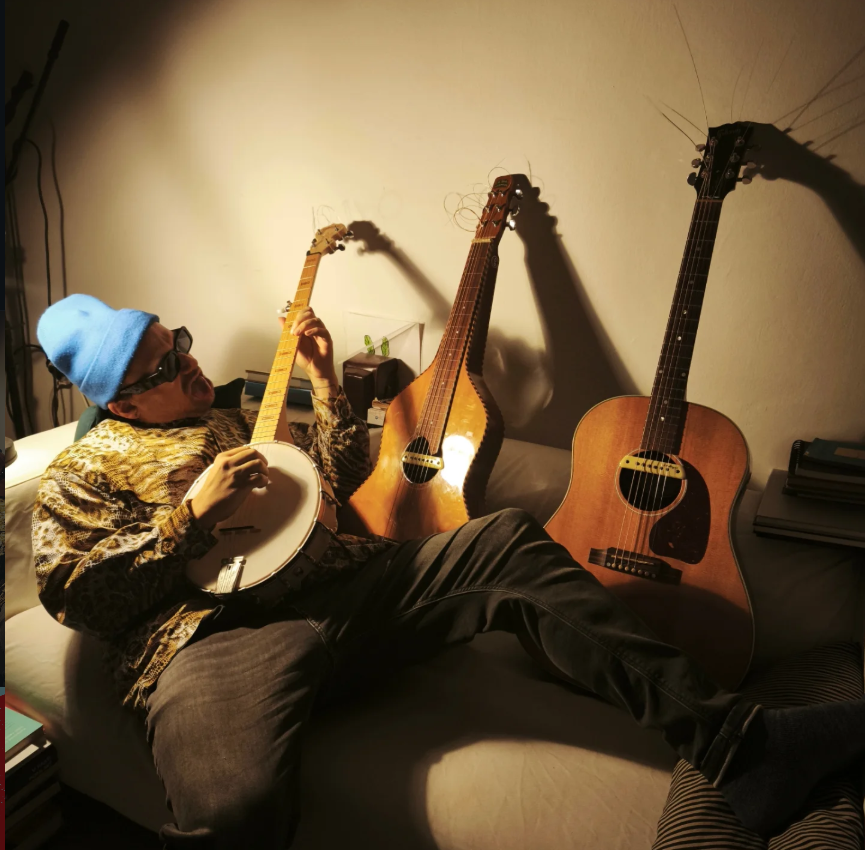
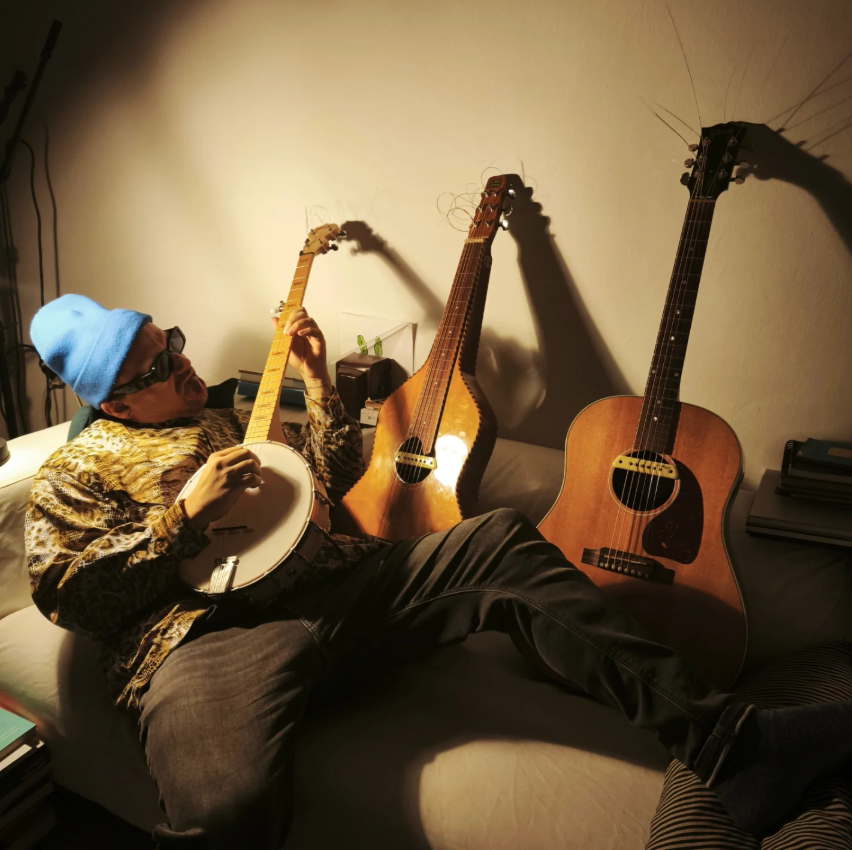
Podmenu zpátky na spodní lince hlavičky
Přepínač motivu měl 40 px, ale položky navigace mají ~29. Výšku hlavičky
určuje její nejvyšší prvek, takže lišta povyrostla, položka „hudba" se v ní
vycentrovala a její podmenu — které na ní visí — se odlepilo od spodní linky.

Na desktopu je tlačítko nově 28 px, tedy pod výškou navigace, a zarovnání je
zpátky. Na mobilu zůstává 40 px kvůli dotyku; tam se podmenu nezobrazuje.
Vazba je popsaná v komentáři, protože je nenápadná a další vyšší prvek
v liště by ji rozhodil znovu.

diff --git a/src/components/core/ThemeToggle/styles.ts b/src/components/core/ThemeToggle/styles.ts
@@ -1,11 +1,19 @@
 import type { SxProps, Theme } from "@mui/material/styles";
 
-/** Kulaté tlačítko vedle přepínače jazyka. 40 px, ať se na mobilu dá trefit. */
+/**
+ * Tlačítko vedle přepínače jazyka.
+ *
+ * Výška na desktopu je schválně 28 px, ne 40: výšku hlavičky určuje její
+ * nejvyšší prvek, a položky navigace mají ~29 px. Vyšší tlačítko by lištu
+ * roztáhlo, položka „hudba" by se v ní vycentrovala a její podmenu — které
+ * na ní visí — by se odlepilo od spodní linky lišty.
+ * Na mobilu je 40 px kvůli dotyku; tam se podmenu nezobrazuje, takže nevadí.
+ */
 export const button: SxProps<Theme> = {
   ml: { xs: "0.15rem", sm: "0.9rem" },
   flex: "0 0 auto",
-  width: 40,
-  height: 40,
+  width: { xs: 40, md: 28 },
+  height: { xs: 40, md: 28 },
   p: 0,
   display: "inline-flex",
   alignItems: "center",
@@ -17,5 +25,5 @@ export const button: SxProps<Theme> = {
   transition: "color .2s ease",
   "&:hover": { color: "var(--obili)" },
   "&:focus-visible": { outline: "2px solid var(--obili)", outlineOffset: "2px" },
-  "& svg": { width: 18, height: 18, display: "block" },
+  "& svg": { width: { xs: 18, md: 17 }, height: { xs: 18, md: 17 }, display: "block" },
 };
